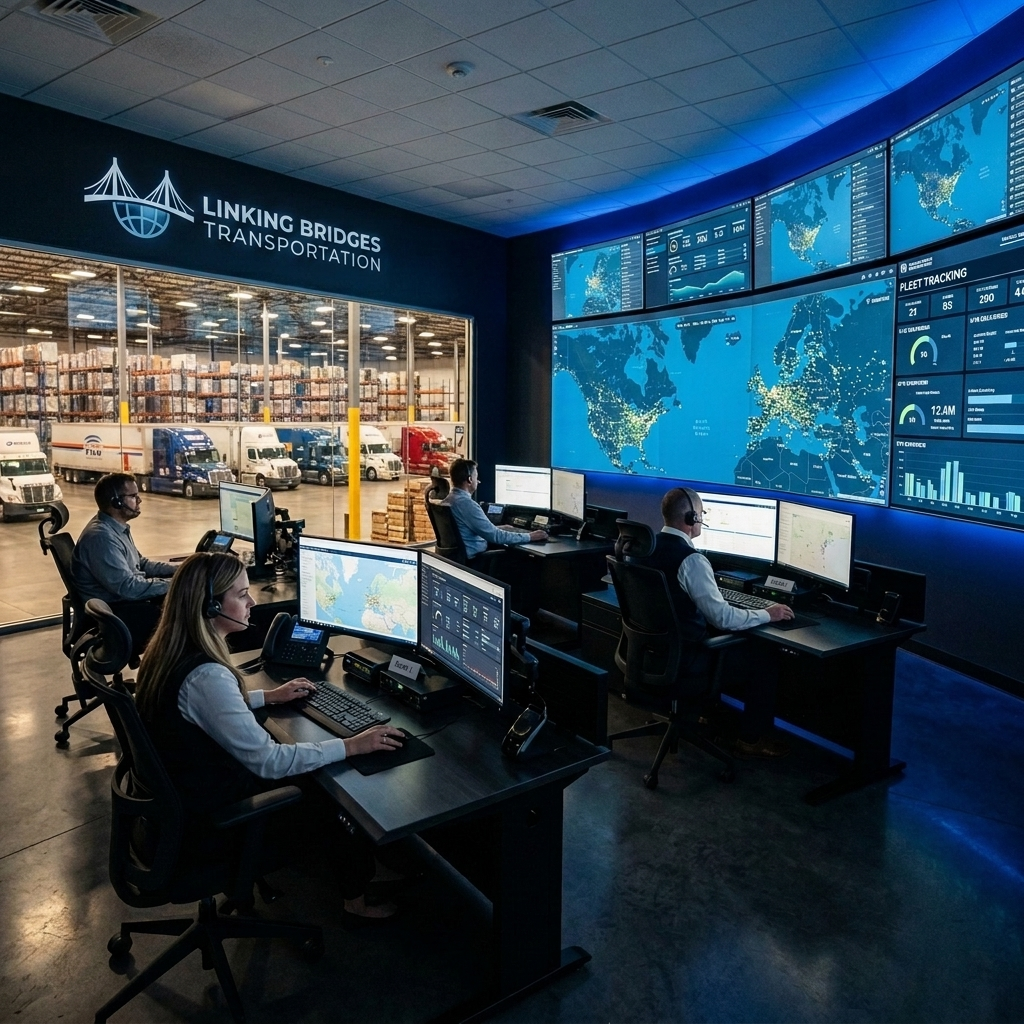
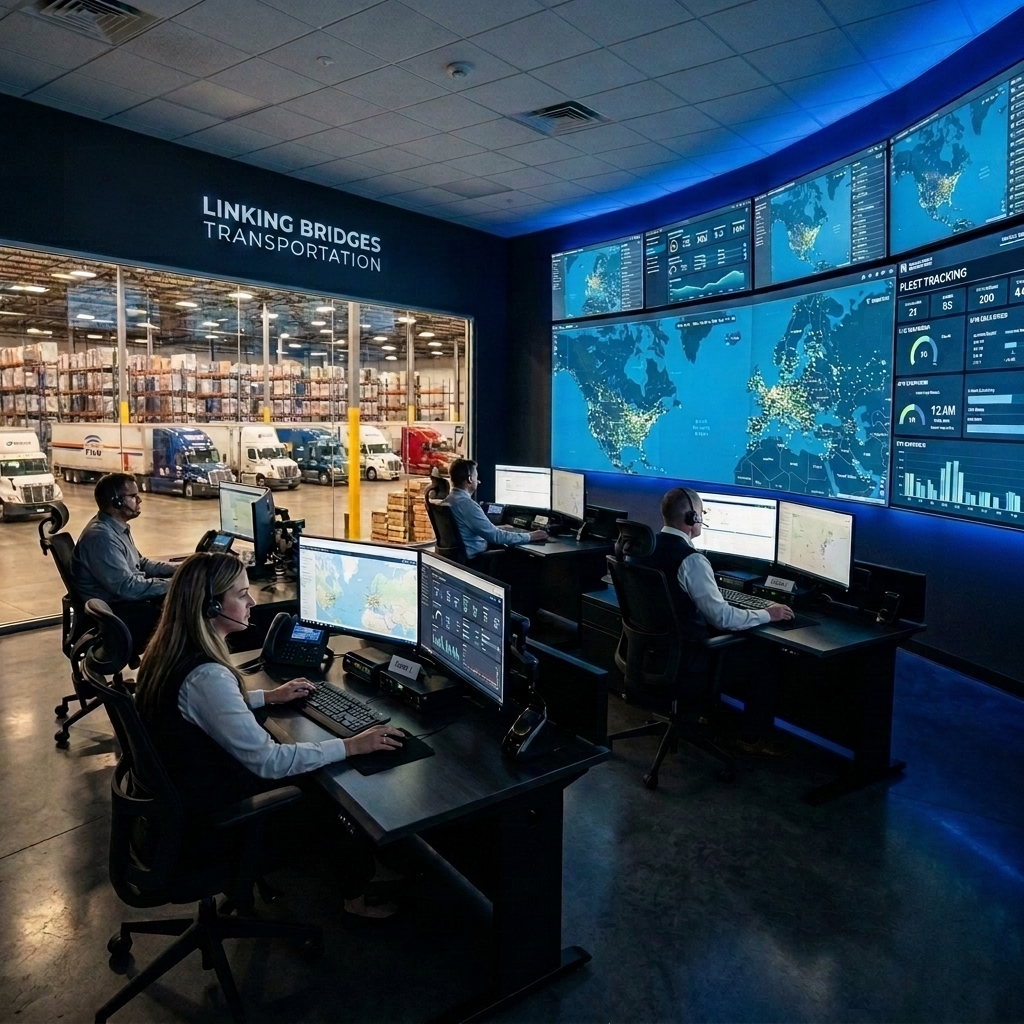
had added blue theme to the background and make the website much premium

diff --git a/assets/js/script.js b/assets/js/script.js
@@ -66,8 +66,8 @@ function renderHeader() {
       </button>
       <ul class="nav-links" id="main-nav">
         ${navMarkup}
-        <li><a class="btn btn-download" href="javascript:void(0)"><svg width="16" height="16" viewBox="0 0 24 24" fill="none" stroke="currentColor" stroke-width="2" stroke-linecap="round" stroke-linejoin="round" style="margin-right:6px;vertical-align:middle;"><path d="M21 15v4a2 2 0 0 1-2 2H5a2 2 0 0 1-2-2v-4"/><polyline points="7 10 12 15 17 10"/><line x1="12" y1="15" x2="12" y2="3"/></svg>Download Profile</a></li>
-        <li><a class="btn btn-primary" href="/pages/contact.html">Request a Quote</a></li>
+        <li style="margin-left: auto;"><a class="btn btn-download" href="javascript:void(0)"><svg width="16" height="16" viewBox="0 0 24 24" fill="none" stroke="currentColor" stroke-width="2" stroke-linecap="round" stroke-linejoin="round" style="margin-right:6px;vertical-align:middle;"><path d="M21 15v4a2 2 0 0 1-2 2H5a2 2 0 0 1-2-2v-4"/><polyline points="7 10 12 15 17 10"/><line x1="12" y1="15" x2="12" y2="3"/></svg>Download Profile</a></li>
+        <li style="margin-right: -1rem;"><a class="btn btn-primary" href="/pages/contact.html">Request a Quote</a></li>
       </ul>
     </div>`;
 
@@ -151,6 +151,14 @@ function renderFooter() {
       <div class="contact-info">
         <p><strong>Email:</strong> <a href="mailto:info@linkingbridges.net">info@linkingbridges.net</a></p>
         <p><strong>Phone:</strong> <a href="tel:+966553311591">+966553311591</a></p>
+      </div>
+      <div class="social-links" style="display:flex; gap:1.25rem; align-items:center;">
+        <a href="https://www.instagram.com/linkingbridgestra/" target="_blank" aria-label="Instagram" style="display:flex; align-items:center; justify-content:center; width:36px; height:36px; background:rgba(255,255,255,0.05); border-radius:50%; transition:background 0.3s ease, color 0.3s ease;">
+          <svg width="18" height="18" viewBox="0 0 24 24" fill="none" stroke="currentColor" stroke-width="2" stroke-linecap="round" stroke-linejoin="round"><rect x="2" y="2" width="20" height="20" rx="5" ry="5"></rect><path d="M16 11.37A4 4 0 1 1 12.63 8 4 4 0 0 1 16 11.37z"></path><line x1="17.5" y1="6.5" x2="17.51" y2="6.5"></line></svg>
+        </a>
+        <a href="https://www.facebook.com/profile.php?id=61591867538470" target="_blank" aria-label="Facebook" style="display:flex; align-items:center; justify-content:center; width:36px; height:36px; background:rgba(255,255,255,0.05); border-radius:50%; transition:background 0.3s ease, color 0.3s ease;">
+          <svg width="18" height="18" viewBox="0 0 24 24" fill="none" stroke="currentColor" stroke-width="2" stroke-linecap="round" stroke-linejoin="round"><path d="M18 2h-3a5 5 0 0 0-5 5v3H7v4h3v8h4v-8h3l1-4h-4V7a1 1 0 0 1 1-1h3z"></path></svg>
+        </a>
       </div>
       <div class="copyright">
         <p>&copy; ${year} Linking Bridges. All rights reserved.</p>

diff --git a/assets/css/styles.css b/assets/css/styles.css
@@ -328,9 +328,15 @@ textarea {
 .header-inner {
   display: flex;
   align-items: center;
-  justify-content: space-between;
+  justify-content: flex-start;
   padding: 0.8rem 1.5rem;
-  gap: 1rem;
+  gap: 3.5rem;
+}
+
+@media (max-width: 1024px) {
+  .header-inner {
+    justify-content: space-between !important;
+  }
 }
 
 .brand {
@@ -2631,11 +2637,14 @@ body.dark-page .btn-outline-dark:hover {
   padding: 4rem 0;
 }
 
+body.dark-page .pdf-affiliations {
+  background: var(--dark) !important;
+}
 body.dark-page .pdf-affiliations .pdf-section-title {
-  color: #141928 !important;
+  color: #ffffff !important;
 }
 body.dark-page .pdf-affiliations .pdf-section-label {
-  color: #475569 !important;
+  color: #94a3b8 !important;
 }
 .pdf-logos-row {
   display: flex;
@@ -2936,6 +2945,12 @@ body.dark-page .pdf-affiliations .pdf-section-label {
   right: 0;
   background: linear-gradient(270deg, #f5f7fa 0%, transparent 100%);
 }
+body.dark-page .logo-carousel::before {
+  background: linear-gradient(90deg, var(--dark) 0%, transparent 100%);
+}
+body.dark-page .logo-carousel::after {
+  background: linear-gradient(270deg, var(--dark) 0%, transparent 100%);
+}
 
 .logo-carousel-track {
   display: flex;
@@ -3028,7 +3043,7 @@ body.dark-page .pdf-affiliations .pdf-section-label {
   object-fit: contain !important;
   margin-top: -30px !important;
   margin-bottom: -30px !important;
-  margin-right: 1.5rem !important;
+  margin-right: -80px !important;
   transform: translateX(-120px) !important;
 }
 
@@ -3106,7 +3121,7 @@ body.dark-page .pdf-affiliations .pdf-section-label {
     font-size: 0.85rem !important;
   }
   .site-header .brand-wordmark {
-    margin-right: 0.5rem !important;
+    margin-right: -20px !important;
     transform: translateX(-40px) !important;
   }
 }
@@ -4957,5 +4972,19 @@ body.dark-page .typo-stat-item:hover .typo-bg-number {
 @media (max-width: 640px) {
   .typography-stats-grid {
     grid-template-columns: 1fr;
+  }
+}
+
+/* Adjust header to bring links closer to logo on desktop */
+@media (min-width: 1025px) {
+  .site-header .header-inner {
+    justify-content: flex-start !important;
+    gap: 3.5rem !important;
+  }
+  .site-header .nav-links {
+    flex: 1 !important;
+  }
+  .site-header .container {
+    padding-right: 0.5rem !important;
   }
 }
